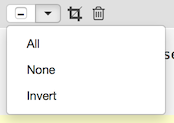
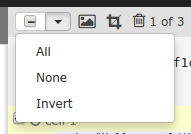
Adding 1.8 docs

diff --git a/doc/1.8/guidoc/doc.md b/doc/1.8/guidoc/doc.md
@@ -106,14 +106,17 @@ Also, if the notebook was created as a result of [Forking another notebook](#for
 
 Click the Advanced drop-down menu to access more features:
 
-* **Open in GitHub**: Notebooks are stored as GitHub "gists," although you'll rarely need to interface directly with GitHub. This means you get all the power of a source-control versioning system for free. Behind the scenes, GitHub stores every revision of your notebooks, so you can retrieve them later, if necessary. In the GitHub web interface, you can delete your notebooks, edit the text, or change the privacy settings, among other things. For more about using the GitHub interface see [the GitHub help pages](https://help.github.com/).
+* **Open in GitHub**: Notebooks are stored as "gists" using the [RCloud Gist Service](https://github.com/att/rcloud-gist-services).  This means you get all the power of a source-control versioning system for free. Behind the scenes, RCloud stores every revision of your notebooks, so you can retrieve them later, if necessary.
 * **Load Notebook by ID**: Replace the current notebook with another via URL or GitHub Gist ID.
+* **Pull and Replace Notebook**: Opens a dialog box where you can tell RCloud to copy the contents of an existing notebook in the same RCloud instance via URL, file, or ID and replace the contents of the current notebook.
 * **Import External Notebooks**: Using this dialog, you can import multiple notebooks stored in another GitHub repository. You'll need the source GitHub repository API URL and a list of notebook IDs, newline separated. In addition, you can supply a prefix that will cause all the imported notebooks to go into a folder. E.g. "myfolder/". Note the trailing '/' character.
 * **Export Notebook to File**: Your browser will automatically save a copy of the current notebook in JSON format in whatever directory you've designated for downloads. The file name will be the same as your notebook with a .gist extension.
 * **Import Notebook from File**: In order to import a notebook, it must be in the same format as an exported notebook. Once you specify the notebook's location, you can validate the notebook by clicking the word "Validate." To import, click the Import button.
 * **Export Notebook as R Source File**: When selected, your browser will download an R source text file named after your notebook with .R appended.
 * **Manage Groups**: Opens the Notebook Permissions / Group Management dialog, where you can [manage your groups](#protectingyournotebooks).
 * **Publish Notebook**: By default, users who wish to view your notebooks must be logged into RCloud. If the Publish Notebook box is checked, *any* user who has network access to the notebook's URL will be able to view the notebook. Obviously, editing features will be turned off for these users.
+* **Import Rmarkdown File**: Imports Rmarkdown containined in a .Rmd file.
+* **Export Rmarkdown File**: When selected, your browser will download an Rmarkdown text file named after your notebook with .Rmd appended.
 
 ![Header Bar: Discover Link](img/header_discover.png): Click the Discover link in the header bar to view the most recent and most popular notebooks.
 
@@ -264,6 +267,10 @@ For additional Markdown information, please refer to the [full documentation of 
 
 If you find a typo or would like to otherwise edit your code, click the ![Edit Markdown](img/editmarkdown.png) icon. You can also click on any code portions of the output to enter edit mode.
 
+#### Navigation
+
+At the beginning or end of a cell's code, use the up and down arrow keys to jump to the next or previous cell.
+
 [Top](#TOP)
 
 <a name="addinganddeletingcells"></a>
@@ -400,6 +407,8 @@ To change the default name of new notebooks, see the [New Notebook Prefixes](#ne
 To run all the cells in your notebook, click the ![Header Bar: Play Icon](img/header_play.png) icon in the header bar.
 
 RCloud notebooks are executed asynchronously. RCloud will show individual cell results as the results are ready to display.
+
+To run only selected cells, hold down the `Ctrl/Cmd` key when you lick the ![Header Bar: Play Icon](img/header_play.png) icon in the header bar. See the [Multi-Cell Selection](#multi-cell-selection) section for more information about multiple-cell selection. 
 
 <a name="runninganotebook"></a>
 
@@ -577,6 +586,8 @@ There are several ways you can share your notebooks with colleagues. When you cl
 
 This allows you to select the kind of URL you'd like to share. Make your selection using the popup menu and then right click on the ![Header Bar: Share Icon](img/header_share.png) icon to copy the hyperlink.
 
+Clicking on a selection in the sharing menu will open a new browser tab and load the selected link.
+
 Note that if you have a tagged version of your notebook currently loaded, where appropriate, RCloud will populate the shared URL with the tag instead of the version. This is beneficial because then you can tag future versions with the same tag and not break existing URLs.
 
 [Top](#TOP)
@@ -640,14 +651,14 @@ To find out which users starred your notebook, click the notebook information ic
 
 ### Multi-Cell Selection
 
-You can use RCloud's multi-cell selection features to easily remove cells you no longer need:
+You can use RCloud's multi-cell selection features to perform various actions on many cells at once.
 
 ![Multi-cell Feature](img/multicell.png)
 
 1. At the top of your loaded notebook, you'll find a header bar. Click the checkbox to select/deselect every cell in your notebook.
 2. Click a cell's header to select that cell. Note that clicking the header of a selected cell **does not** deselect the cell.
 3. Click a cell's checkbox to select/deselect that cell.
-4. Click the crop icon to remove every cell that **isn't selected**. Click the trash icon to delete all **selected cells**.
+4. Click the ![output](img/cellheader_output.png) icon to hide the output of selected cells. Note that this feature is only available with your own notebooks. Click the ![crop](img/cellheader_crop.png) icon to remove every cell that **isn't selected**. Click the ![trash](img/cellheader_delete.png) icon to delete all **selected cells**. Note that RCloud will indicate how many cells are selected out of the total number of cells.
 
 Use the checkbox dropdown menu to fine-tune your selection:
 
@@ -786,7 +797,7 @@ Assets can be binary (e.g. an image). RCloud auto-detects the content format and
 
 ### Asset Size
 
-Assets are limited to 750KB each.
+Assets are limited to 2.5MB each.
 
 [Top](#TOP)
 
@@ -961,6 +972,18 @@ Toggles "Cell 1," "Cell 2," etc. in the cells panel.
 ### Arrange panels by size
 
 In some situations, larger panels on the left-hand side of the GUI "crowd-out" the currently loaded notebook and force the user to resize. In order to minimize this, select the "Arrange Panel by Size" checkbox in the Settings panel. RCloud will then rearrange panels in order to reduce the need for resizing the notebook.
+
+[Top](#TOP)
+
+### Clear R Session when entire notebook is run
+
+Runs notebooks as though you'd just logged in.
+
+[Top](#TOP)
+
+### Export only selected cells
+
+In the various export commands available in the Advanced header menu item, only export selected cells.
 
 [Top](#TOP)
 
